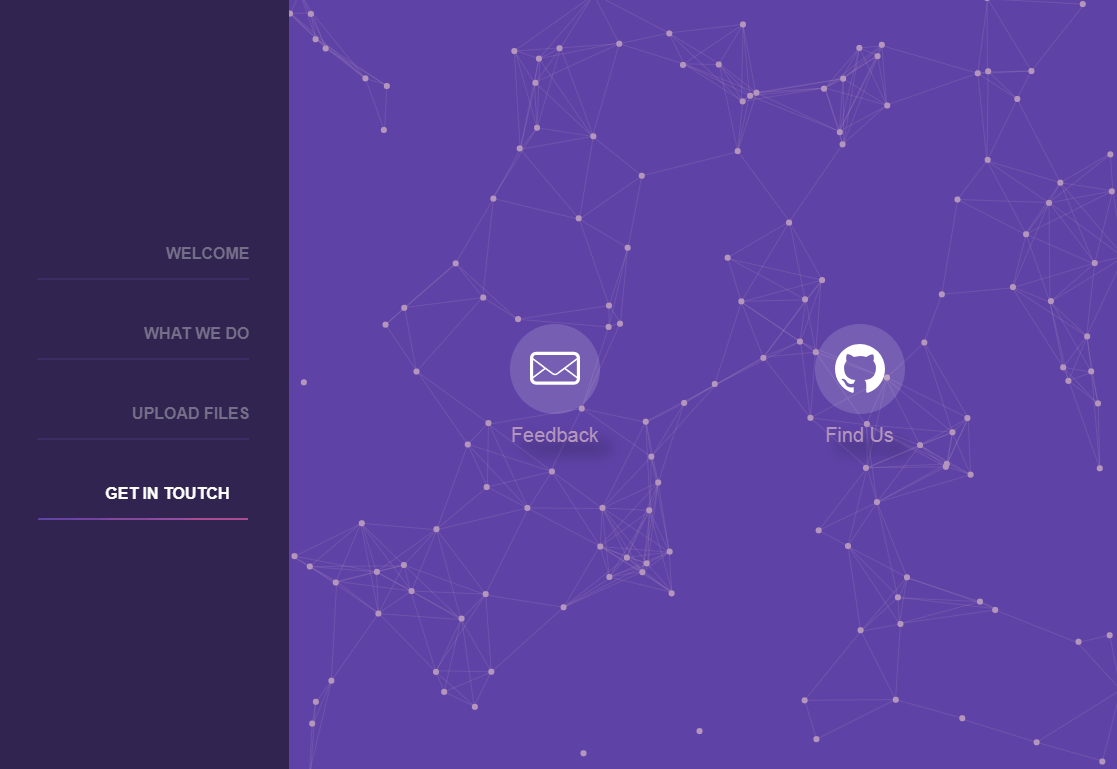
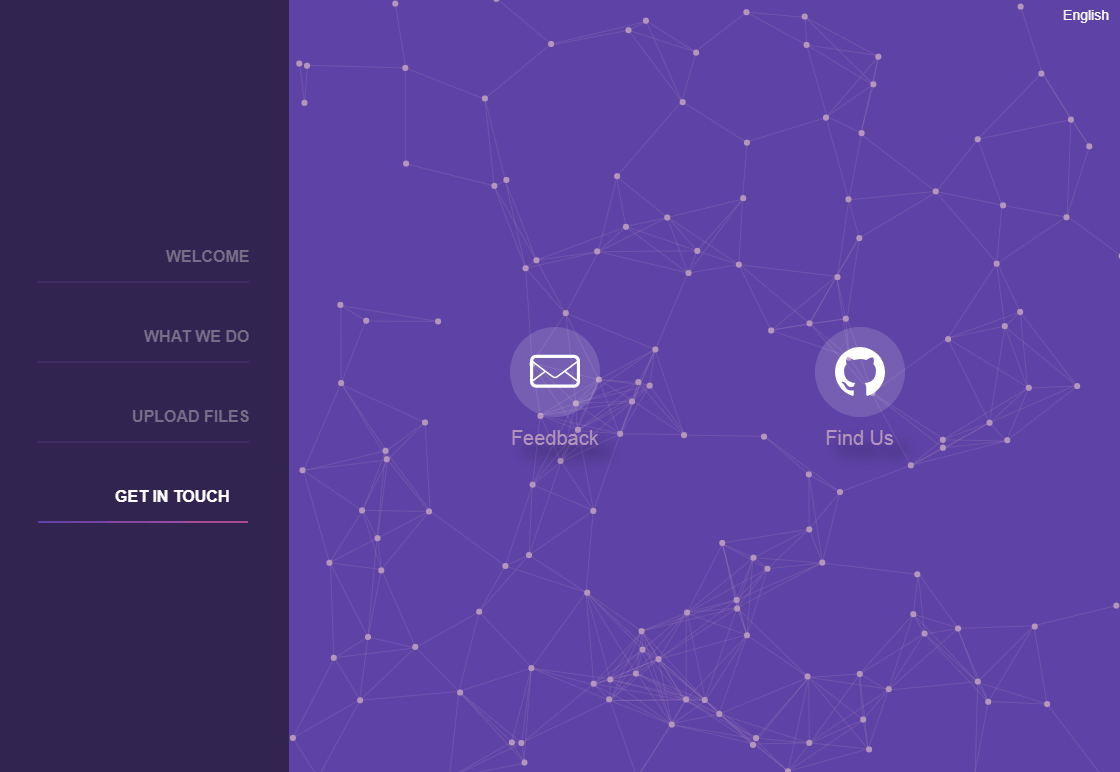
Readme file changes (#6)
* -- Adding language option in home page
-- Spell check fix
-- adding dutch language file

* New images and update the readme file

* Readme file

diff --git a/src/app/components/shared/header/header.component.ts b/src/app/components/shared/header/header.component.ts
@@ -1,6 +1,9 @@
+import { LanguageService, ILanguage } from './../../../providers/language.service';
+
 import { FileService } from './../../../providers/file.service';
 import { Component, OnInit, Output, EventEmitter } from '@angular/core';
 import { TranslateService } from '@ngx-translate/core';
+import { Observable } from 'rxjs';
 const shell = require('electron').shell;
 
 @Component({
@@ -10,14 +13,16 @@ const shell = require('electron').shell;
 })
 export class HeaderComponent implements OnInit {
   languages: Array<ILanguage> = [];
-  selectedLanguage = 'English';
+  selectedLanguage: ILanguage;
   @Output() goToHomeClicked = new EventEmitter();
 
-  constructor(private translateService: TranslateService, private fileService: FileService) {}
+  constructor(private translateService: TranslateService, private fileService: FileService, private languageService: LanguageService) {}
 
   ngOnInit() {
-    this.languages.push(<ILanguage>{ name: 'English', code: 'en' });
-    this.languages.push(<ILanguage>{ name: 'Dutch', code: 'nl' });
+    this.languages = this.languageService.languages;
+    this.languageService.selectedLanguage.subscribe(x => {
+      this.selectedLanguage = x;
+    });
   }
   openURL() {
     shell.openExternal('https://github.com/ritsrivastava01/CSV-Editor');
@@ -27,9 +32,8 @@ export class HeaderComponent implements OnInit {
    * language change handler
    * @param  {ILanguage} item
    */
-  changeLanguage = (item: ILanguage) => {
-    this.selectedLanguage = item.name;
-    this.translateService.use(item.code);
+  changeLanguage = (language: ILanguage) => {
+    this.languageService.changeLanguage(language);
   }
 
   clicked = () => {
@@ -38,9 +42,4 @@ export class HeaderComponent implements OnInit {
   uploadCsvClicked = () => {
     this.fileService.showDialog();
   }
-}
-
-export interface ILanguage {
-  name: string;
-  code: string;
 }

diff --git a/src/app/app.module.ts b/src/app/app.module.ts
@@ -1,24 +1,17 @@
 import { ThemeStorage } from './components/shared/theme-picker/theme-storge/theme-storage';
 import { StyleManager } from './components/shared/theme-picker/style-manager/style-manager';
-
 import 'reflect-metadata';
 import '../polyfills';
 import { BrowserModule } from '@angular/platform-browser';
 import { NgModule } from '@angular/core';
 import { FormsModule } from '@angular/forms';
-
 import { HttpClientModule, HttpClient } from '@angular/common/http';
-
 import { AppRoutingModule } from './app-routing.module';
-
 // NG Translate
 import { TranslateModule, TranslateLoader } from '@ngx-translate/core';
 import { TranslateHttpLoader } from '@ngx-translate/http-loader';
-
 import { ElectronService } from './providers/electron.service';
-
 import { WebviewDirective } from './directives/webview.directive';
-
 import { AppComponent } from './app.component';
 import { HomeComponent } from './components/home/home.component';
 import { BrowserAnimationsModule } from '@angular/platform-browser/animations';
@@ -40,6 +33,7 @@ import { FileService } from './providers/file.service';
 import { CsvModule } from './components/csv-module/csv.module';
 import { SharedModule } from './components/shared/shared.module';
 import { DashBoardNewModule } from './components/dash-board/dash-board.module';
+import { LanguageService } from './providers/language.service';
 
 // AoT requires an exported function for factories
 export function HttpLoaderFactory(http: HttpClient) {
@@ -78,7 +72,7 @@ export function HttpLoaderFactory(http: HttpClient) {
       }
     })
   ],
-  providers: [ElectronService, FileService, StyleManager, ThemeStorage],
+  providers: [ElectronService, FileService, StyleManager, ThemeStorage, LanguageService],
   bootstrap: [AppComponent]
 })
 export class AppModule {}

diff --git a/src/app/components/dash-board/right-panel/right-panel.component.ts b/src/app/components/dash-board/right-panel/right-panel.component.ts
@@ -1,3 +1,4 @@
+import { LanguageService, ILanguage } from './../../../providers/language.service';
 import { INavigationItem, LeftNavigationService } from './../services/left-navigation.service';
 import { EuListType } from './../drop-area/drop-area.component';
 import { FileService, IFile } from './../../../providers/file.service';
@@ -13,8 +14,9 @@ export class RightPanelComponent implements OnInit {
 
   @Output() openFileItemClicked: EventEmitter<EuListType> = new EventEmitter();
   recentFiles: Array<IFile> = [];
-
-  constructor(private fileService: FileService, private leftNavService: LeftNavigationService) {
+  languages: Array<ILanguage> = [];
+  selectedLanguage: ILanguage;
+  constructor(private fileService: FileService, private leftNavService: LeftNavigationService, private languageService: LanguageService) {
     this.leftNavService.activeNavigationItemObservable.subscribe(x => {
       this.clickedNavigationItem = x;
     });
@@ -22,6 +24,11 @@ export class RightPanelComponent implements OnInit {
 
   ngOnInit() {
     this.recentFiles = this.fileService.getRecentSavedFiles();
+    this.languages = this.languageService.languages;
+    this.languageService.selectedLanguage.subscribe(x => {
+      console.log(x);
+      this.selectedLanguage = x;
+    });
   }
   readMoreClicked = () => {
     this.leftNavService.LeftNavigationClicked(this.leftNavService.navigationItems.find(x => x.id === 2));
@@ -32,5 +39,13 @@ export class RightPanelComponent implements OnInit {
   }
   openFileItemClickedHandler = (evt: EuListType) => {
     this.openFileItemClicked.emit(evt);
+  }
+
+  /**
+   * language change handler
+   * @param  {ILanguage} item
+   */
+  changeLanguage = (language: ILanguage) => {
+    this.languageService.changeLanguage(language);
   }
 }

diff --git a/src/app/providers/language.service.ts b/src/app/providers/language.service.ts
@@ -1,0 +1,43 @@
+import { Subject, ReplaySubject } from 'rxjs';
+import { Injectable } from '@angular/core';
+import { TranslateService } from '@ngx-translate/core';
+
+@Injectable()
+export class LanguageService {
+  languages: Array<ILanguage> = [];
+  selectedLanguage: ReplaySubject<ILanguage> = new ReplaySubject<ILanguage>();
+
+  constructor(private translateService: TranslateService) {
+    this.languages.push(<ILanguage>{ name: 'English', code: 'en' });
+    this.languages.push(<ILanguage>{ name: 'Dutch', code: 'nl' });
+  }
+
+  changeLanguage = (item: ILanguage) => {
+    this.translateService.use(item.code);
+    this.storeLanguage(item);
+    console.log(this.getStoredLanguage());
+  }
+  loadDefaultLanguage = () => {
+    this.translateService.setDefaultLang(this.languages[0].code);
+    this.changeLanguage(this.languages[0]);
+  }
+
+  private storeLanguage(language: ILanguage) {
+    window.localStorage['languageCode'] = language.code;
+    this.selectedLanguage.next(language);
+  }
+
+  getStoredLanguage(): ILanguage | null {
+    try {
+      const code = window.localStorage['languageCode'] || null;
+      return code && this.languages.find(x => x.code === code);
+    } catch {
+      return null;
+    }
+  }
+}
+
+export interface ILanguage {
+  name: string;
+  code: string;
+}

diff --git a/src/app/components/dash-board/dash-board.module.ts b/src/app/components/dash-board/dash-board.module.ts
@@ -5,7 +5,7 @@ import { DashBoardComponent } from './dash-board.component';
 import { LeftPanelComponent } from './left-panel/left-panel.component';
 import { RightPanelComponent } from './right-panel/right-panel.component';
 import { SharedModule } from '../shared/shared.module';
-import { MatButtonModule, MatProgressBarModule, MatGridListModule } from '@angular/material';
+import { MatButtonModule, MatProgressBarModule, MatGridListModule, MatMenuModule } from '@angular/material';
 import { DropAreaComponent } from './drop-area/drop-area.component';
 import { ContactUsComponent } from './contact-us/contact-us.component';
 import { LeftNavigationService } from './services/left-navigation.service';
@@ -13,7 +13,7 @@ import { WhatWeCanDoComponent } from './what-we-can-do/what-we-can-do.component'
 
 @NgModule({
   declarations: [DashBoardComponent, LeftPanelComponent, RightPanelComponent, DropAreaComponent, ContactUsComponent, WhatWeCanDoComponent],
-  imports: [CommonModule, SharedModule, MatButtonModule, MatProgressBarModule, MatGridListModule, TranslateModule],
+  imports: [CommonModule, SharedModule, MatButtonModule, MatProgressBarModule, MatGridListModule, TranslateModule, MatMenuModule],
   exports: [DashBoardComponent],
   providers: [LeftNavigationService]
 })

diff --git a/src/app/app.component.ts b/src/app/app.component.ts
@@ -1,4 +1,5 @@
-import { Component } from '@angular/core';
+import { LanguageService } from './providers/language.service';
+import { Component, OnInit } from '@angular/core';
 import { ElectronService } from './providers/electron.service';
 import { TranslateService } from '@ngx-translate/core';
 import { AppConfig } from '../environments/environment';
@@ -8,11 +9,8 @@ import { AppConfig } from '../environments/environment';
   templateUrl: './app.component.html',
   styleUrls: ['./app.component.scss']
 })
-export class AppComponent {
-  constructor(public electronService: ElectronService,
-    private translate: TranslateService) {
-
-    translate.setDefaultLang('en');
+export class AppComponent implements OnInit {
+  constructor(public electronService: ElectronService, private translate: TranslateService, private languageService: LanguageService) {
     console.log('AppConfig', AppConfig);
 
     if (electronService.isElectron()) {
@@ -22,5 +20,9 @@ export class AppComponent {
     } else {
       console.log('Mode web');
     }
+  }
+
+  ngOnInit() {
+    this.languageService.loadDefaultLanguage();
   }
 }

diff --git a/src/app/components/dash-board/right-panel/right-panel.component.html b/src/app/components/dash-board/right-panel/right-panel.component.html
@@ -1,5 +1,15 @@
 <app-particles></app-particles>
+<div class="drop-down">
+    <button mat-button [matMenuTriggerFor]="menu">{{ selectedLanguage?.name }}</button>
+    <!-- USed to show the language option -->
+    <mat-menu #menu="matMenu">
+      <button mat-menu-item *ngFor="let item of languages" (click)="changeLanguage(item)">
+        {{ item.name }}
+      </button>
+    </mat-menu>
+  </div>
 <div class="container">
+ 
   <!--Welcome div-->
   <div class="welcome" *ngIf="clickedNavigationItem?.id === 1">
     <h1>{{ "page.right-panel.title" | translate }}</h1>
@@ -25,7 +35,7 @@
   </div>
 
   <!--Drop Area div-->
-  <div class="upload-files-container" *ngIf="clickedNavigationItem?.id === 3">
+  <div class="upload-files" *ngIf="clickedNavigationItem?.id === 3">
     <app-drop-area (OpenFileItemClicked)="openFileItemClickedHandler($event)"></app-drop-area>
   </div>
 

diff --git a/src/app/providers/file.service.ts b/src/app/providers/file.service.ts
@@ -50,16 +50,15 @@ export class FileService {
   }
 
   loadFilesInApplication = (files: Array<IFile>) => {
-    this.saveRecentFileListToLocalStogare(files);
+    this.saveRecentFileListToLocalStorage(files);
 
     this.selectedFiles.next(files);
   }
 
-  private saveRecentFileListToLocalStogare = (fileList: Array<IFile>) => {
+  private saveRecentFileListToLocalStorage = (fileList: Array<IFile>) => {
     // window.localStorage.removeItem('csv_editor_fileList');
 
-    const savedFiles = window.localStorage.getItem('csv_editor_fileList') ?
-     JSON.parse(window.localStorage.getItem('csv_editor_fileList')) : [];
+    const savedFiles = window.localStorage.getItem('csv_editor_fileList') ? JSON.parse(window.localStorage.getItem('csv_editor_fileList')) : [];
 
     const fileToSave = JSON.stringify(
       fileList

diff --git a/src/app/components/csv-module/csv/csv-layout/csv-layout.component.scss b/src/app/components/csv-module/csv/csv-layout/csv-layout.component.scss
@@ -19,7 +19,7 @@
     padding-top: 10px;
 
     mat-form-field {
-      width: 60%;
+      width: 50%;
     }
     .div-buttons {
       justify-content: flex-end;
@@ -48,10 +48,10 @@
       justify-content: space-evenly;
       width: 100%;
 
-      .possition {
-        min-width: 70px !important;
-        max-width: 70px !important;
-      }
+      // .possition {
+      //   min-width: 70px !important;
+      //   max-width: 70px !important;
+      // }
       .example-full-width {
         width: 150px;
         border: 1px solid #bbb4af;

diff --git a/src/app/components/shared/header/header.component.html b/src/app/components/shared/header/header.component.html
@@ -17,8 +17,7 @@
   </button>
 
   <app-theme-picker></app-theme-picker>
-  <!--<mat-icon aria-label="Example icon-button with a heart icon" >settings</mat-icon>-->
-  <button mat-button [matMenuTriggerFor]="menu">{{ selectedLanguage }}</button>
+  <button mat-button [matMenuTriggerFor]="menu">{{ selectedLanguage?.name }}</button>
   <!-- USed to show the language option -->
   <mat-menu #menu="matMenu">
     <button mat-menu-item *ngFor="let item of languages" (click)="changeLanguage(item)">

diff --git a/src/app/components/dash-board/right-panel/right-panel.component.scss b/src/app/components/dash-board/right-panel/right-panel.component.scss
@@ -4,6 +4,13 @@
   justify-content: center;
   align-items: center;
 
+  .drop-down {
+    color: #fff;
+    position: absolute;
+    top: 0px;
+    right: 0px;
+    z-index: 99;
+  }
   .container {
     position: fixed;
     height: 100%;
@@ -78,8 +85,10 @@
         }
       }
     }
-
-    .upload-files-container {
+    .what-we-do {
+      display: flex;
+    }
+    .upload-files {
       height: 55%;
     }
   }

diff --git a/src/app/providers/language.service.spec.ts b/src/app/providers/language.service.spec.ts
@@ -1,0 +1,12 @@
+import { TestBed } from '@angular/core/testing';
+
+import { LanguageService } from './language.service';
+
+describe('LanguageService', () => {
+  beforeEach(() => TestBed.configureTestingModule({}));
+
+  it('should be created', () => {
+    const service: LanguageService = TestBed.get(LanguageService);
+    expect(service).toBeTruthy();
+  });
+});
